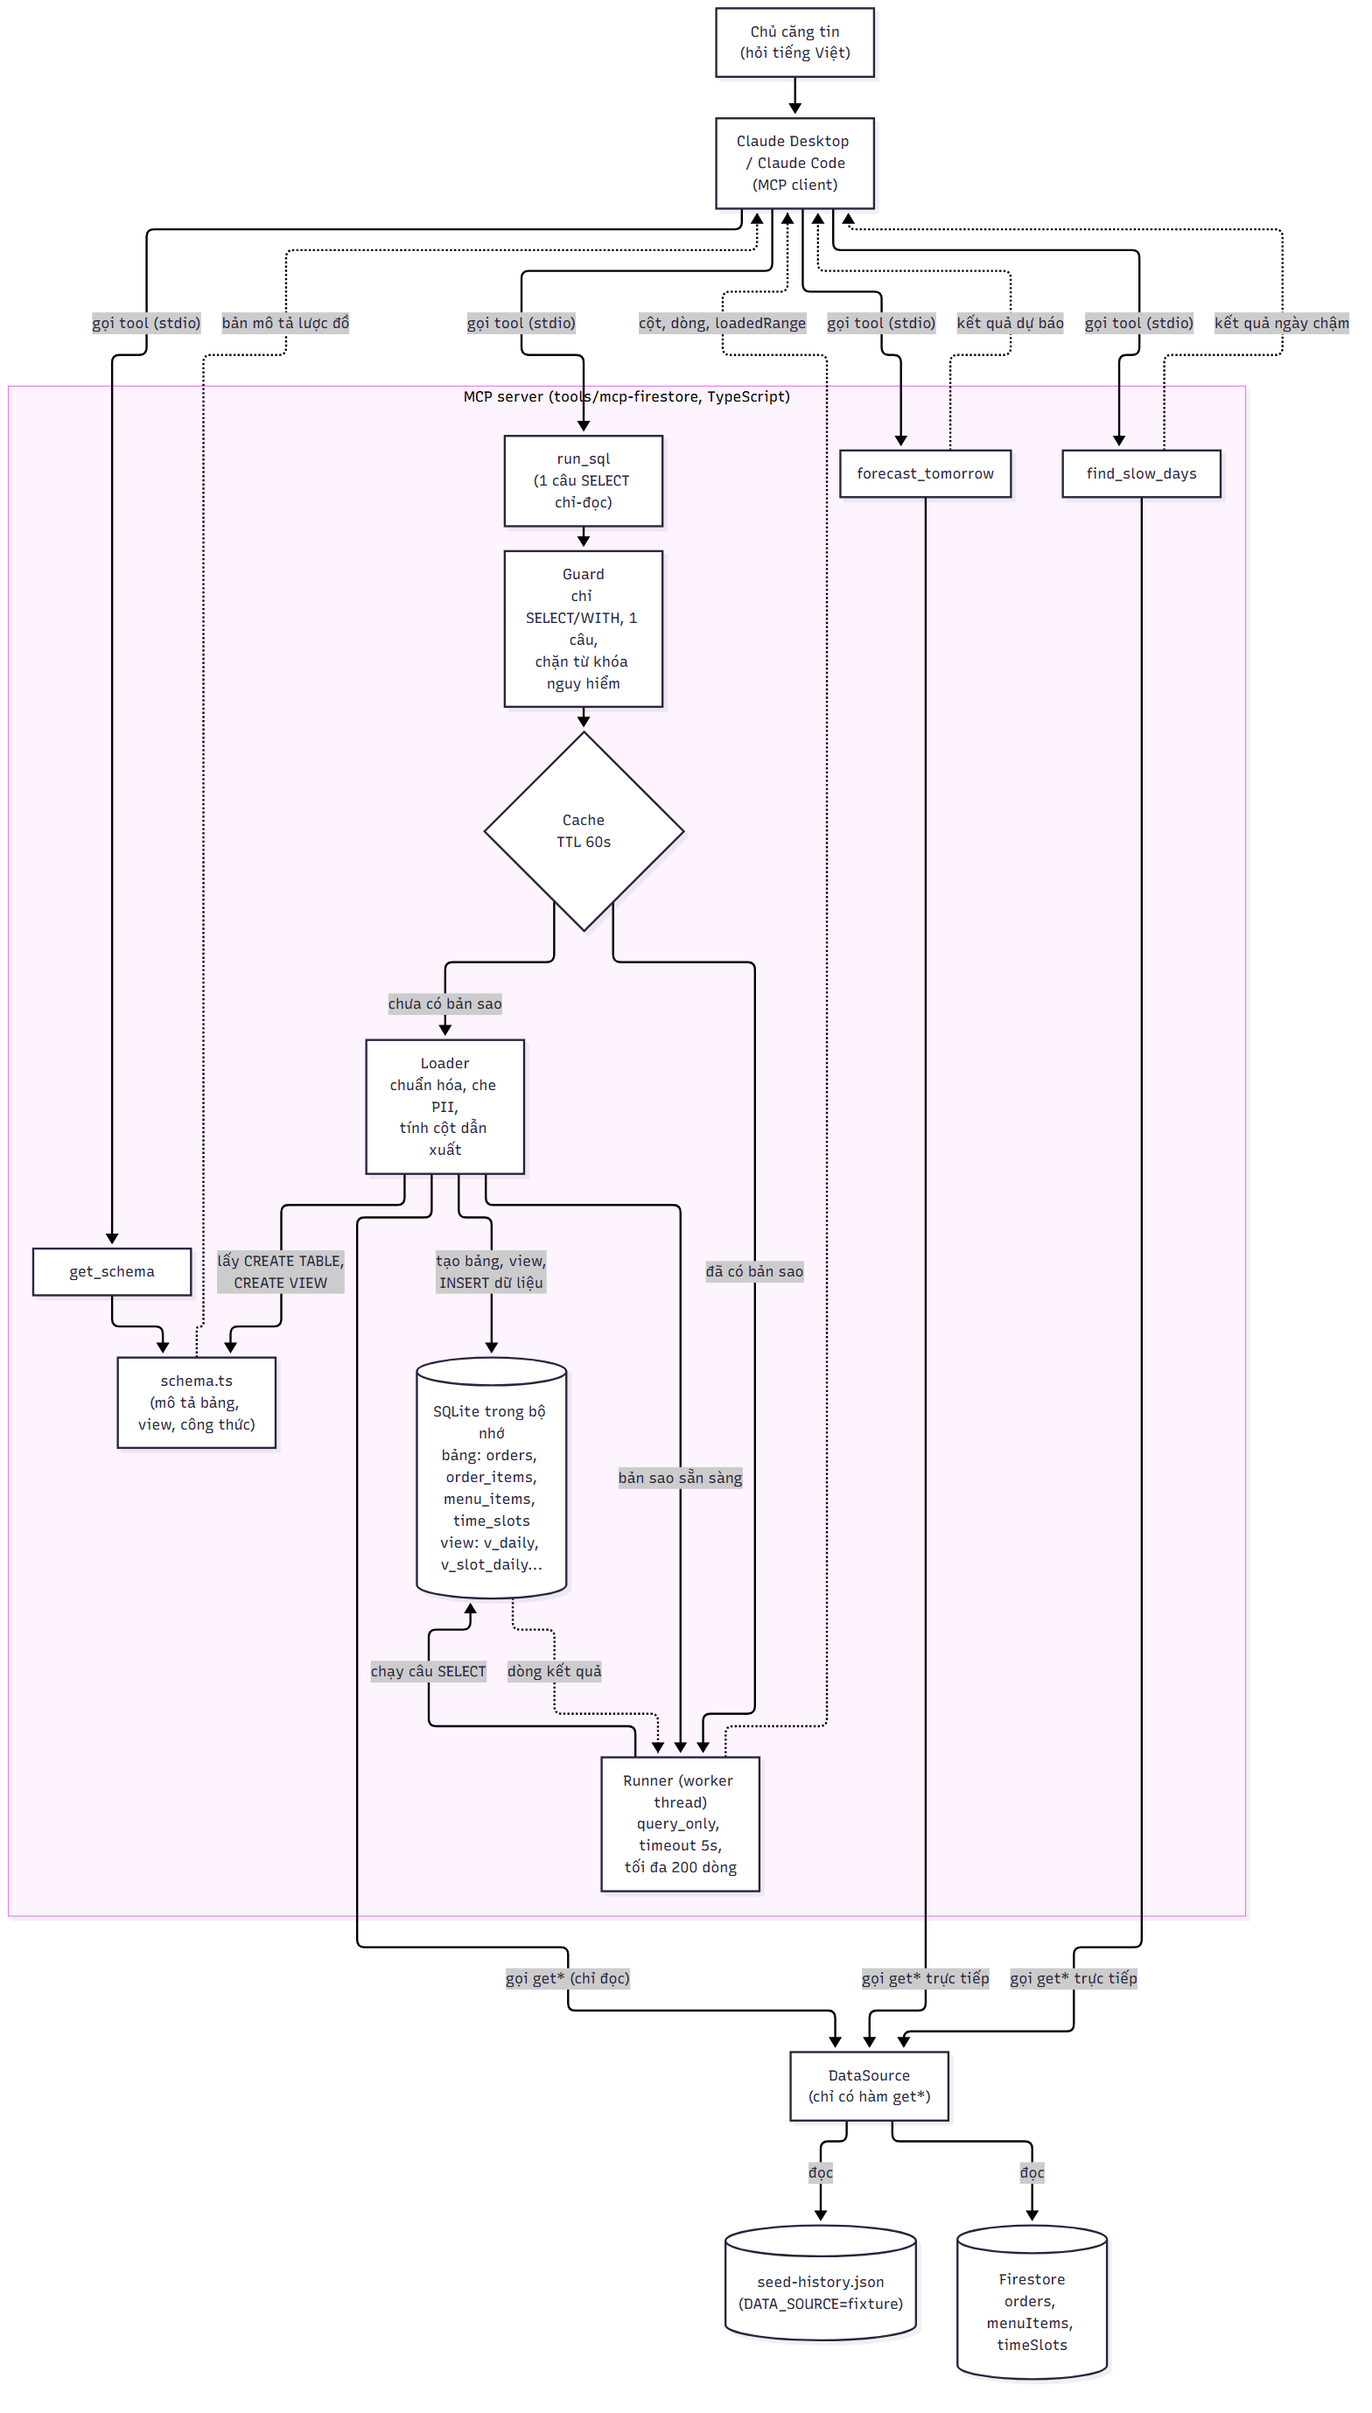
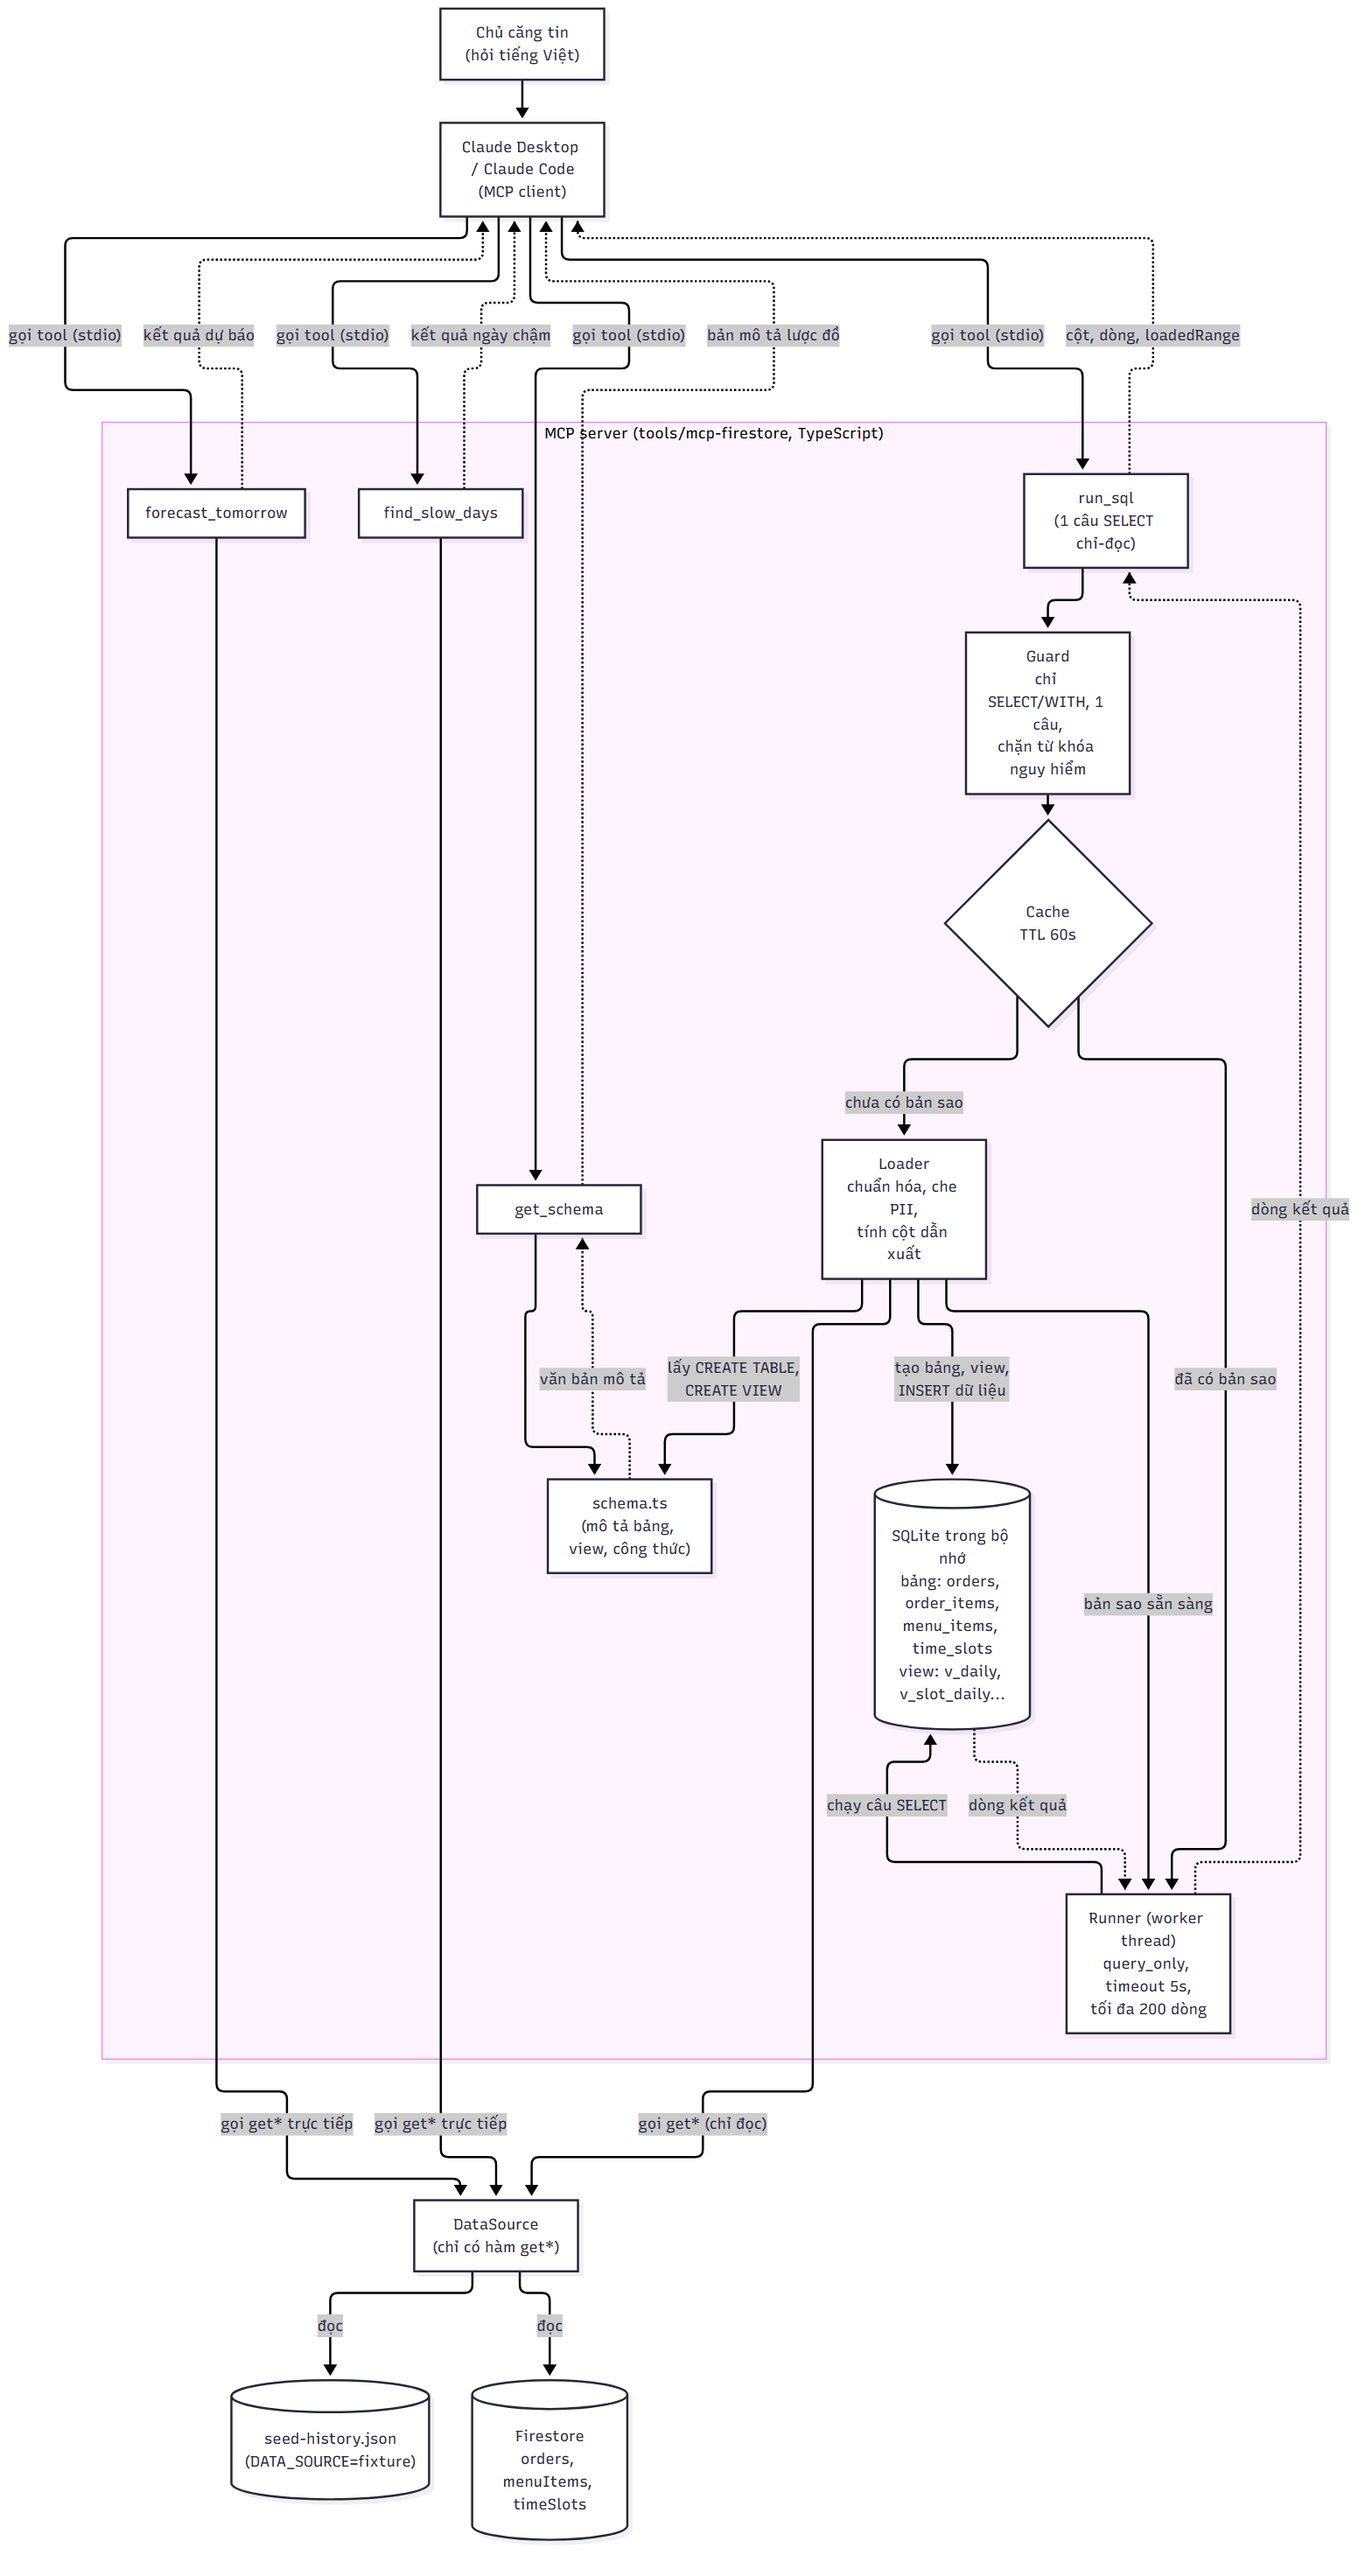
docs: update architecture diagram with explicit tool response flow

diff --git a/docs/mcp-server-design.md b/docs/mcp-server-design.md
@@ -58,8 +58,10 @@ flowchart TB
     D -->|"đọc"| X[("seed-history.json<br/>(DATA_SOURCE=fixture)")]
 
     DB -.->|"dòng kết quả"| R
-    R -.->|"cột, dòng, loadedRange"| C
-    SC -.->|"bản mô tả lược đồ"| C
+    R -.->|"dòng kết quả"| T2
+    T2 -.->|"cột, dòng, loadedRange"| C
+    SC -.->|"văn bản mô tả"| T1
+    T1 -.->|"bản mô tả lược đồ"| C
     T3 -.->|"kết quả dự báo"| C
     T4 -.->|"kết quả ngày chậm"| C
 ```
